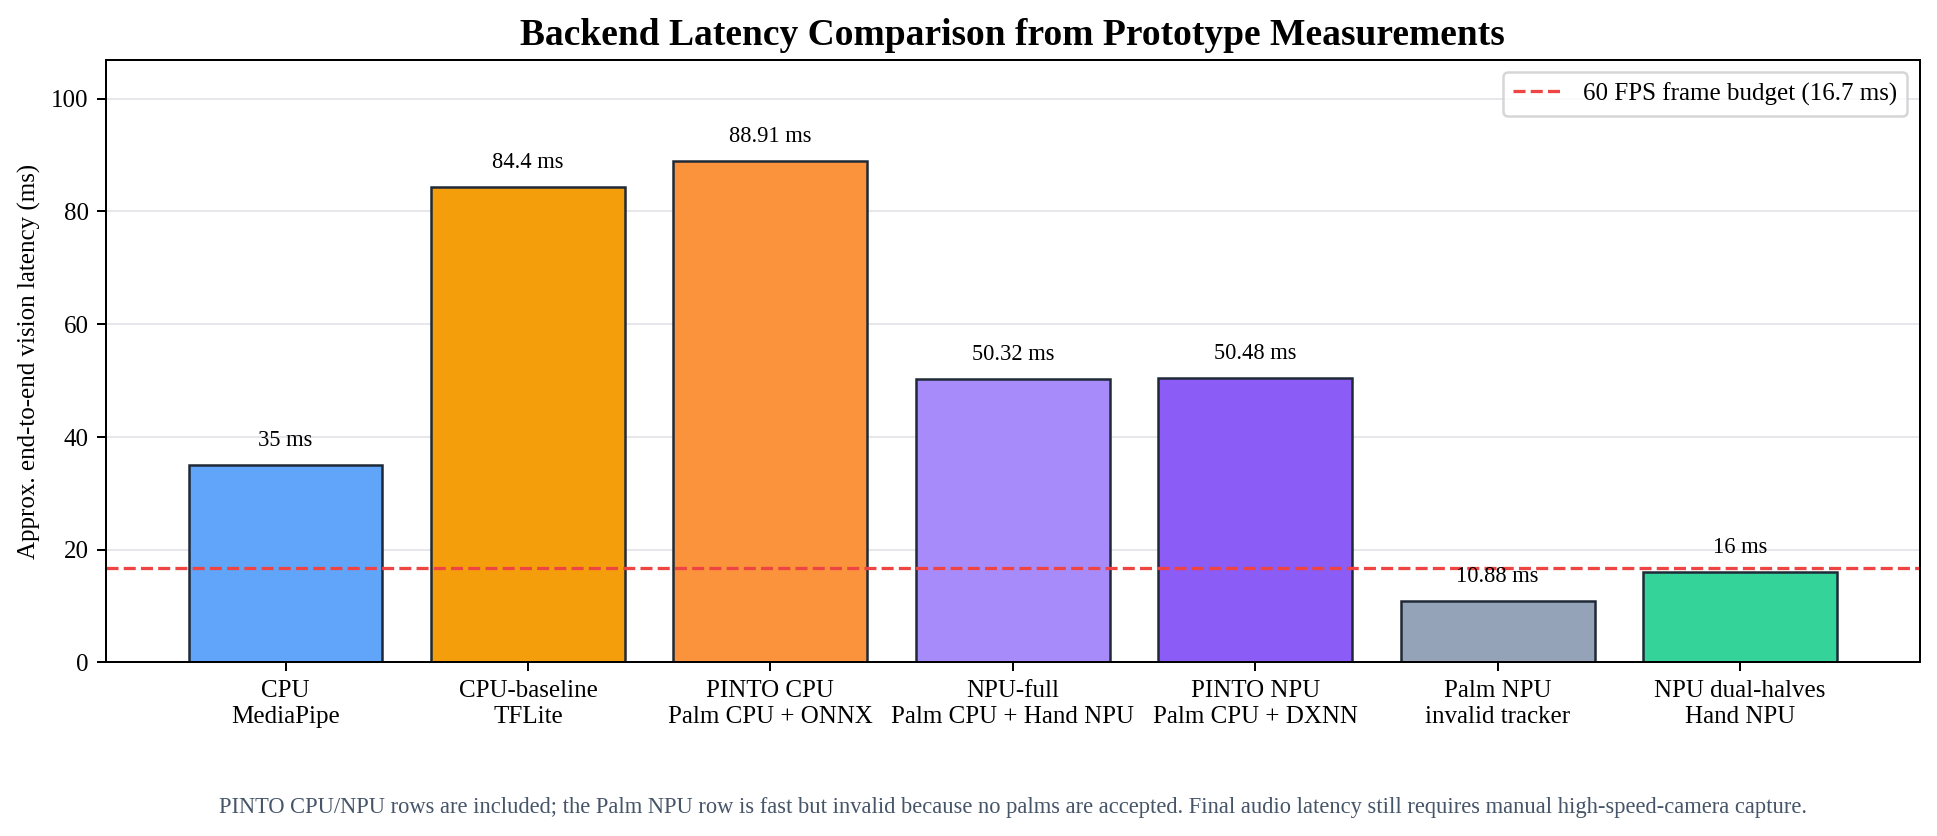
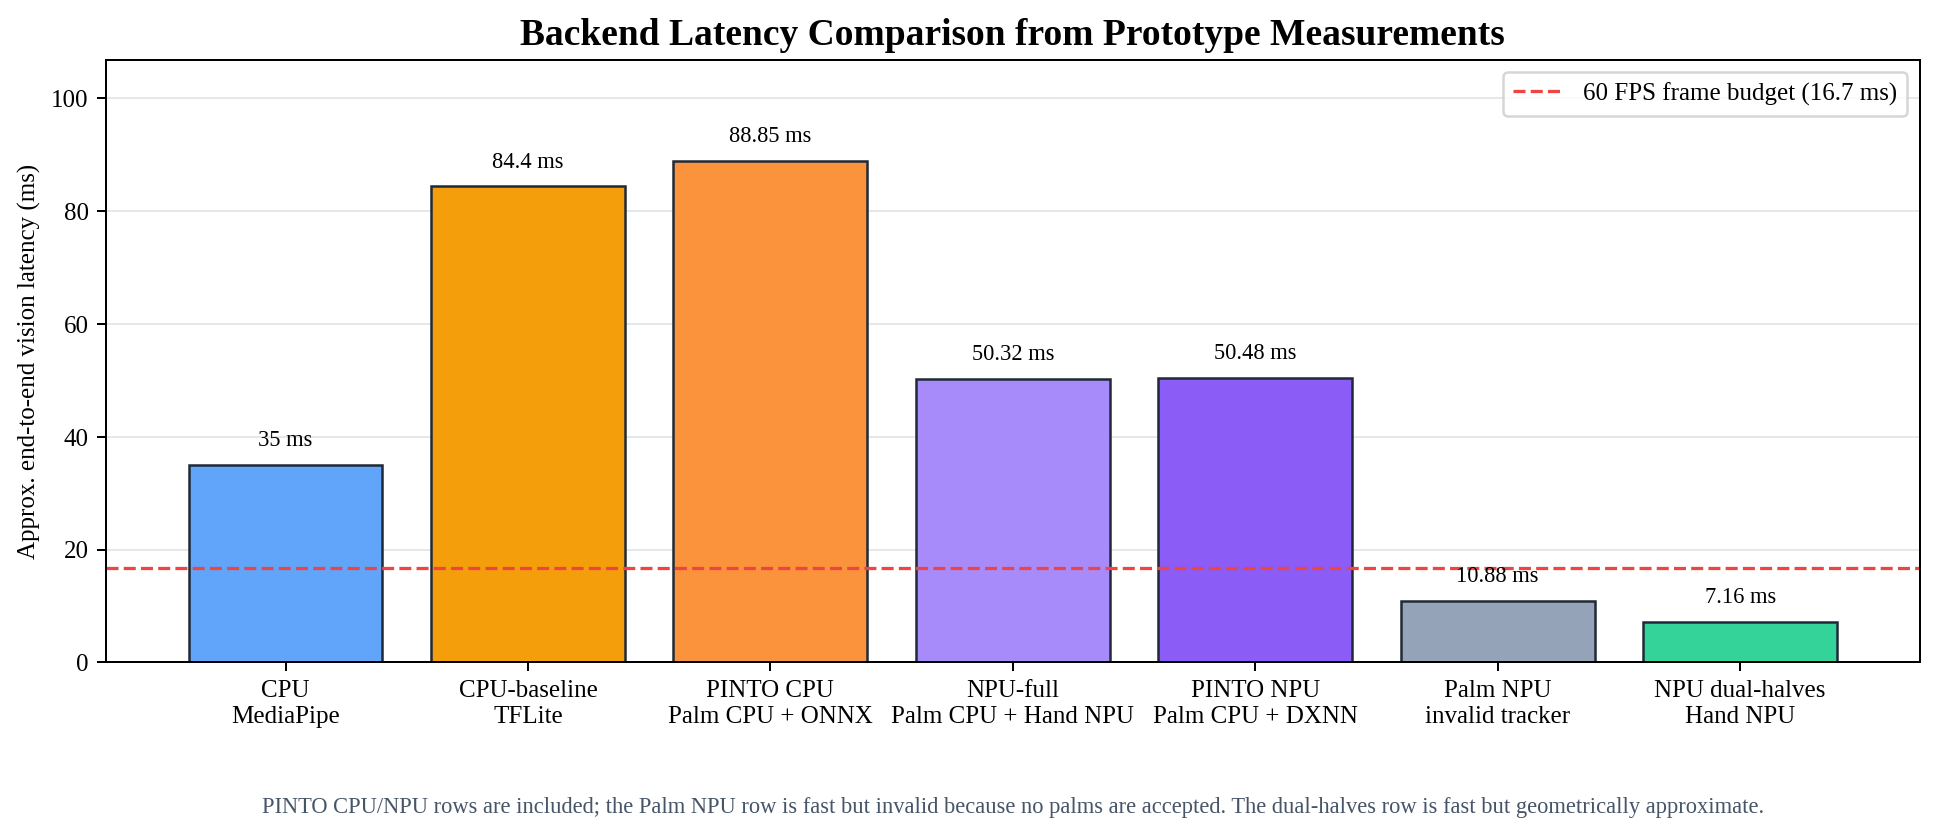
Clarify which backend is worth using on NPU
Add a report table and generated figure that compare latency, landmark agreement, and profiled NPU-active share across cpu-baseline, PINTO, npu-full, dual-halves, and palm-NPU paths.

Constraint: PINTO rows are 10-frame adoption smokes, while the longer cpu-baseline vs npu-full run remains the main 90-frame matched benchmark.

Rejected: Treating raw dxtop instantaneous percent as the comparison metric | it is bursty and less reproducible than profiled NPU-backed stage share.

Confidence: high

Scope-risk: narrow

Directive: Keep npu-full as the default NPU backend until a matched benchmark shows another backend beats both speed and landmark agreement.

Tested: python3 tools/gen_report_figures.py; python3 -m py_compile tools/gen_report_figures.py; python3 -m unittest discover -s tests; python3 tools/test_palm_decode.py

Not-tested: Full 90-frame PINTO replay sweep; synchronized raw dxtop capture embedded in the report.

Changed region(s): [[0.1239, 0.933, 0.9293, 0.9952], [0.8363, 0.6531, 0.9602, 0.7464], [0.2168, 0.2177, 0.3098, 0.2488]]

diff --git a/air_drum_pad/tools/gen_report_figures.py b/air_drum_pad/tools/gen_report_figures.py
@@ -258,7 +258,7 @@ def latency_chart() -> None:
         "Palm NPU\ninvalid tracker",
         "NPU dual-halves\nHand NPU",
     ]
-    values = [35.0, 84.4, 88.91, 50.32, 50.48, 10.88, 16.0]
+    values = [35.0, 84.4, 88.85, 50.32, 50.48, 10.88, 7.16]
     colors = ["#60a5fa", "#f59e0b", "#fb923c", "#a78bfa", "#8b5cf6", "#94a3b8", "#34d399"]
 
     fig, ax = plt.subplots(figsize=(13.0, 5.4))
@@ -282,7 +282,7 @@ def latency_chart() -> None:
     ax.text(
         0.5,
         -0.25,
-        "PINTO CPU/NPU rows are included; the Palm NPU row is fast but invalid because no palms are accepted. Final audio latency still requires manual high-speed-camera capture.",
+        "PINTO CPU/NPU rows are included; the Palm NPU row is fast but invalid because no palms are accepted. The dual-halves row is fast but geometrically approximate.",
         transform=ax.transAxes,
         ha="center",
         fontsize=9,
@@ -293,11 +293,95 @@ def latency_chart() -> None:
     plt.close(fig)
 
 
+def backend_tradeoff_chart() -> None:
+    labels = [
+        "CPU-baseline\nTFLite",
+        "PINTO CPU\nPalm CPU + ONNX",
+        "NPU-full\nPalm CPU + Hand NPU",
+        "PINTO NPU\nPalm CPU + DXNN",
+        "NPU dual-halves\nHand NPU",
+        "Palm NPU\ninvalid tracker",
+    ]
+    latency_ms = [87.73, 88.85, 49.76, 50.48, 7.16, 10.88]
+    mean_xy_error = [
+        0.0,
+        (0.0176 + 0.0103) / 2.0,
+        (0.0068 + 0.0129) / 2.0,
+        (0.0205 + 0.0115) / 2.0,
+        (0.1593 + 0.1319) / 2.0,
+        0.0,
+    ]
+    npu_active_share = [
+        0.0,
+        0.0,
+        8.57 / 49.76 * 100.0,
+        9.00 / 50.48 * 100.0,
+        100.0,
+        10.82 / 10.88 * 100.0,
+    ]
+    colors = ["#f59e0b", "#fb923c", "#a78bfa", "#8b5cf6", "#34d399", "#94a3b8"]
+
+    fig, axes = plt.subplots(1, 3, figsize=(15.5, 5.2))
+    fig.suptitle("Backend Trade-off: Speed, Accuracy, and NPU-Active Share", fontsize=16, fontweight="bold", y=0.98)
+
+    panels = [
+        (axes[0], latency_ms, "Mean vision latency (ms)", "Lower is better", "{:.1f}", set()),
+        (axes[1], mean_xy_error, "Mean normalized XY error", "Lower is better", "{:.4f}", {5}),
+        (axes[2], npu_active_share, "NPU-active share proxy (%)", "Higher means more NPU-bound", "{:.0f}%", set()),
+    ]
+
+    for ax, values, ylabel, subtitle, fmt, invalid_indices in panels:
+        bars = ax.bar(labels, values, color=colors, edgecolor="#1f2937", linewidth=0.9)
+        ax.set_ylabel(ylabel)
+        ax.set_title(subtitle, fontsize=11)
+        ax.grid(axis="y", color="#e5e7eb")
+        ax.set_axisbelow(True)
+        ax.tick_params(axis="x", labelrotation=35, labelsize=8)
+        for index, (bar, value) in enumerate(zip(bars, values)):
+            if index in invalid_indices:
+                bar.set_alpha(0.25)
+                ax.text(
+                    bar.get_x() + bar.get_width() / 2,
+                    ax.get_ylim()[1] * 0.055,
+                    "invalid",
+                    ha="center",
+                    va="bottom",
+                    fontsize=8,
+                    color="#475569",
+                )
+                continue
+            ax.text(
+                bar.get_x() + bar.get_width() / 2,
+                value + ax.get_ylim()[1] * 0.025,
+                fmt.format(value),
+                ha="center",
+                va="bottom",
+                fontsize=8,
+            )
+
+    axes[0].axhline(16.7, color="#ef4444", linestyle="--", linewidth=1.1)
+    axes[0].text(0.0, 17.9, "60 FPS budget", fontsize=8, color="#ef4444")
+    axes[1].set_ylim(0, 0.17)
+    axes[2].set_ylim(0, 112)
+    fig.text(
+        0.5,
+        0.01,
+        "Accuracy uses 10-frame replay agreement against cpu-baseline. NPU-active share is derived from profiled NPU-backed stage time, not a raw dxtop instantaneous percent.",
+        ha="center",
+        fontsize=9,
+        color="#475569",
+    )
+    fig.subplots_adjust(bottom=0.31, top=0.84, wspace=0.28)
+    fig.savefig(OUT / "backend_tradeoff.png", dpi=180, bbox_inches="tight", facecolor="white")
+    plt.close(fig)
+
+
 def main() -> None:
     panda_icon()
     system_pipeline()
     strike_logic()
     latency_chart()
+    backend_tradeoff_chart()
     print(f"Saved report figures to {OUT}")
 
 

diff --git a/air_drum_pad/docs/EXPERIMENTS.md b/air_drum_pad/docs/EXPERIMENTS.md
@@ -72,10 +72,10 @@
 |------|-----|
 | Board | Orange Pi 5 Plus (RK3588, aarch64) |
 | OS | Linux, Python 3.10.12 |
-| DX-RT / dx_engine | 1.1.4 |
-| DX-COM | v2.1.0-rc.4 (SNU 서버) |
+| DX-RT / dx_engine | DXRT v3.2.0 observed through `dxrt-cli`; NPU driver v2.1.0; firmware v2.5.0 |
+| DX-COM | MediaPipe `.dxnn`: v2.1.0-rc.4 metadata; PINTO `.dxnn`: v2.3.0-rc.5 metadata |
 | Camera | USB, 640×480 |
-| Commit | `99f838d` |
+| Commit | See current `git log` for the exact report revision |
 
 ### 8.2 Palm Detection — NPU (.dxnn) vs CPU (TFLite)
 
@@ -85,21 +85,23 @@
 
 | Palm 백엔드 | 추론 시간 | 비고 |
 |-------------|----------:|------|
-| NPU (.dxnn) | ~12 ms | score 파괴로 **사용 불가** |
-| CPU (TFLite XNNPACK) | ~95 ms | **실사용** (float32, 정확) |
+| NPU (.dxnn) | ~10.4-11.2 ms | score 파괴로 **사용 불가**; no accepted palms, hand stage `0.00 ms` |
+| CPU (TFLite XNNPACK) | ~39-42 ms | **실사용** (float32, 정확) |
 
 ### 8.3 End-to-End 레이턴시 비교
 
 | 백엔드 | Palm | Hand (per hand) | 전체 (2 hands) | 비고 |
 |---------|-----:|----------------:|---------------:|------|
 | `cpu` (MediaPipe) | ~15 ms | ~10 ms | ~35 ms | 모두 float32, 추가 파일 불필요 |
-| `cpu-baseline` (TFLite) | ~95 ms | ~5 ms | **~105 ms** | float32, npu-full 비교 기준선 |
-| `npu-full` (TFLite+NPU) | ~95 ms | ~8 ms | **~111 ms** | 매 프레임 palm 실행 |
-| `npu` (dual-halves) | 0 ms | ~8 ms × 2 | **~16 ms** | palm 검출 없음, 근사 |
+| `cpu-baseline` (TFLite) | 41.70 ms | 45.55 ms | **87.73 ms** | 10-frame replay smoke, 비교 기준선 |
+| `pinto-cpu` (TFLite+PINTO ONNX) | 38.62 ms | 49.85 ms | **88.85 ms** | 10-frame replay smoke |
+| `npu-full` (TFLite+NPU) | 40.91 ms | 8.57 ms | **49.76 ms** | 10-frame replay smoke, 기본 경로 |
+| `pinto-npu` (TFLite+PINTO DXNN) | 41.21 ms | 9.00 ms | **50.48 ms** | 10-frame replay smoke, 실험용 |
+| `npu` (dual-halves) | 0 ms | NPU-only hand pass | **7.16 ms** | 10-frame replay smoke; palm 검출 없음, 근사 |
 
 > **npu-full / cpu-baseline**: 매 프레임 palm detection을 실행합니다 (`_PALM_REDETECT_EVERY = 0`). 이전에는 landmark 기반 ROI 트래킹으로 palm skip(5프레임에 1번)을 사용했으나, NPU INT8 양자화 편향 누적으로 ROI 드리프트(최대 dy=0.26)가 발생하여 비활성화했습니다.
 > 
-> **cpu-baseline vs npu-full**: 동일 파이프라인이지만 hand landmark를 CPU TFLite(float32) vs NPU .dxnn(INT8)로 실행. palm이 전체 시간의 ~90%를 차지하므로 NPU 가속 효과는 hand landmark 단독으로 비교해야 합니다 (~5ms TFLite vs ~8ms NPU).
+> **cpu-baseline vs npu-full / pinto-npu**: 동일 palm+ROI 구조에서 hand landmark만 CPU float32 또는 NPU INT8로 바꾸어 비교합니다. 현재 replay에서는 CPU palm이 약 40 ms를 차지하므로, NPU 가속 효과는 hand landmark stage의 45-50 ms → 약 9 ms 감소로 해석해야 합니다.
 
 > **Palm skip 최적화는 실험 옵션입니다.** 기본값은 정확도 우선(`--palm-redetect-every 0`, 매 프레임 palm)입니다. `--palm-redetect-every 5`처럼 지정하면 이전 프레임 랜드마크에서 다음 ROI를 예측해 palm detection을 건너뛰며, 지연은 줄지만 NPU INT8 편향이 누적될 수 있어 dataset benchmark로 오차를 반드시 확인합니다.
 
@@ -110,6 +112,7 @@
 ```bash
 cd air_drum_pad
 python3 tools/benchmark_dataset.py --backends cpu-baseline,npu-full
+python3 tools/benchmark_dataset.py --backends cpu-baseline,pinto-cpu,pinto-npu,npu-full --limit 10 --warmup 0
 python3 tools/benchmark_dataset.py --backends cpu-baseline,npu-full --palm-redetect-every 5
 python3 tools/sweep_palm_redetect.py --values 0,1,2,3,5,10 \
   --backends cpu-baseline,npu-full --csv /tmp/palm_sweep.csv
@@ -127,12 +130,17 @@ python3 tools/benchmark_dataset.py --backends cpu-baseline,npu-full \
   --landmark-correction models/npu_landmark_correction.dataset.json
 ```
 
-현재 `dataset/` 90프레임에서 확인한 예시 결과(Orange Pi 5 Plus, DX-RT/dx_engine 1.1.4):
+현재 `dataset/` 에서 확인한 예시 결과(Orange Pi 5 Plus). `cpu-baseline`/`npu-full`의 주 비교는 90프레임 기준이며, PINTO rows는 컴파일된 PINTO `.dxnn` 추가 후 수행한 10-frame smoke입니다.
 
 | 구성 | 평균 | P95 | 세부 프로파일 | 비고 |
 |------|-----:|----:|----------------|------|
 | `cpu-baseline`, palm every frame | 84.40 ms | 86.78 ms | palm 39.26 ms + hand 44.80 ms | CPU TFLite 기준 |
 | `npu-full`, palm every frame | 50.32 ms | 54.52 ms | palm 40.93 ms + hand 9.13 ms | 같은 palm+ROI, hand만 NPU |
+| `npu-full`, repeated 5-run measurement | 50.10 ms | 51.71 ms | palm 40.69 ms + hand 9.12 ms | 기본 CPU-palm + NPU-hand profile 재현 |
+| `npu-full --palm-dxnn`, repeated run 1 | 10.39 ms | 12.84 ms | palm 10.34 ms + hand 0.00 ms | Palm NPU path는 빠르지만 accepted palm 없음 |
+| `npu-full --palm-dxnn`, repeated run 2 | 10.88 ms | 13.13 ms | palm 10.82 ms + hand 0.00 ms | 같은 실패 모드 재현 |
+| `pinto-cpu` (10-frame smoke) | 88.91 ms | 97.13 ms | palm 40.19 ms + hand 48.27 ms | PINTO ONNX CPU path는 동작하지만 latency win 아님 |
+| `pinto-npu` (10-frame smoke) | 50.48 ms | 54.48 ms | palm 41.21 ms + hand 9.00 ms | PINTO DXNN path는 동작하며 hand stage를 NPU 속도로 실행 |
 | `npu-full`, `--palm-redetect-every 5` (20프레임 smoke) | 15.29 ms | 50.96 ms | palm frames 3/20, tracking frames 17/20 | 지연 개선, 정확도 회귀 확인 필요 |
 | `npu-full`, `--async-palm` smoke | 10–20 ms대 | 입력 pacing 의존 | tracking + async palm refresh | 실험용 파이프라인 |
 
@@ -140,24 +148,36 @@ python3 tools/benchmark_dataset.py --backends cpu-baseline,npu-full \
 
 | 손 | 매칭 프레임 | 전체 21점 평균 | 손끝 5점 평균 | 평균 max | 최대 max |
 |----|-----------:|---------------:|--------------:|---------:|---------:|
-| Right | 90 | 0.0270 | 0.0336 | 0.0532 | 0.1593 |
-| Left | 83 | 0.0256 | 0.0353 | 0.0457 | 0.0734 |
+| Right | 90 | 0.0220 | 0.0267 | 0.0439 | 0.1316 |
+| Left | 83 | 0.0151 | 0.0225 | 0.0304 | 0.0547 |
 
-NPU landmark bias 보정(`models/npu_landmark_correction.bias.json`) 적용 후, 같은 90프레임 training set:
+저장된 NPU landmark 보정 파일도 테스트했지만 현재 replay 기준으로는 기본값으로 쓰지 않습니다. Dataset affine 보정은 right-hand mean error를 0.0314로 악화시켰고, bias 보정도 right-hand mean error를 0.0290으로 악화시켰습니다. 따라서 live demo default는 무보정이며, 보정은 controlled calibration set이 있을 때만 opt-in 합니다.
 
-| 손 | 매칭 프레임 | 전체 21점 평균 | 손끝 5점 평균 | 평균 max | 최대 max |
-|----|-----------:|---------------:|--------------:|---------:|---------:|
-| Right | 90 | **0.0120** | **0.0128** | **0.0245** | 0.1735 |
-| Left | 83 | **0.0111** | **0.0113** | **0.0220** | **0.0473** |
+PINTO 10-frame smoke landmark 오차(`cpu-baseline` 기준, normalized xy):
 
-더 공격적인 NPU landmark affine 보정(`models/npu_landmark_correction.dataset.json`) 적용 후:
+| Backend | 손 | 전체 21점 평균 | 손끝 5점 평균 | 평균 max | 최대 max |
+|---------|----|---------------:|--------------:|---------:|---------:|
+| `pinto-cpu` | Right | 0.0176 | 0.0145 | 0.0321 | 0.0330 |
+| `pinto-cpu` | Left | 0.0103 | 0.0064 | 0.0198 | 0.0208 |
+| `pinto-npu` | Right | 0.0205 | 0.0313 | 0.0429 | 0.0441 |
+| `pinto-npu` | Left | 0.0115 | 0.0140 | 0.0278 | 0.0285 |
+| `npu-full` | Right | 0.0068 | 0.0100 | 0.0133 | 0.0154 |
+| `npu-full` | Left | 0.0129 | 0.0178 | 0.0264 | 0.0308 |
 
-| 손 | 매칭 프레임 | 전체 21점 평균 | 손끝 5점 평균 | 평균 max | 최대 max |
-|----|-----------:|---------------:|--------------:|---------:|---------:|
-| Right | 90 | **0.0102** | **0.0112** | **0.0223** | 0.1701 |
-| Left | 83 | **0.0092** | **0.0090** | **0.0193** | **0.0437** |
+`pinto-npu`는 `pinto-cpu` 대비 latency는 크게 개선되지만, 10-frame smoke 기준으로는 default `npu-full`을 대체할 정도의 landmark agreement 우위가 없습니다. PINTO를 palm 없이 `npu` dual-halves 방식에 넣은 임시 비교도 threshold `0.5`에서는 accepted hand가 없었고, threshold `0.0`으로 강제해도 Right `0.1514`, Left `0.1464` 수준이라 정확한 backend로 보기 어렵습니다.
 
-> 보정은 평균/손끝 오차를 약 60% 이상 줄입니다. 현재 live demo 기본값은 `models/npu_landmark_correction.bias.json`입니다. Affine 보정은 offline 평균 오차가 조금 더 낮지만 live skeleton shape를 과도하게 왜곡할 수 있어 기본값에서 제외했습니다. 위 수치는 동일 dataset에 fit/eval한 결과이므로, 제출 전 별도 capture set으로 hold-out 검증이 필요합니다.
+세 축 비교 요약(backend 간 같은 window 비교를 위해 10-frame replay smoke 기준):
+
+| Backend | 평균 latency | FPS 환산 | NPU-active share proxy | `cpu-baseline` 대비 평균 landmark error | 해석 |
+|---------|-------------:|---------:|-----------------------:|----------------------------------------:|------|
+| `cpu-baseline` | 87.73 ms | 11.4 FPS | 0.0% | 0.0000 reference | 정확도 기준선, NPU 없음 |
+| `pinto-cpu` | 88.85 ms | 11.3 FPS | 0.0% | 0.0140 | 동작하지만 속도 이점 없음 |
+| `npu-full` | 49.76 ms | 20.1 FPS | 17.2% | 0.0099 | 현재 NPU 사용 backend 중 정확도 최선 |
+| `pinto-npu` | 50.48 ms | 19.8 FPS | 17.8% | 0.0160 | NPU 속도는 확보했지만 `npu-full` 정확도는 못 이김 |
+| `npu` dual-halves | 7.16 ms | 139.7 FPS | 약 100% | 0.1456 | 가장 빠르고 NPU-bound지만 정확도 탈락 |
+| `npu-full --palm-dxnn` | 10.88 ms | 91.9 FPS | 99.4% | invalid | palm NPU는 실행되나 accepted palm 없음 |
+
+`NPU-active share proxy`는 raw `dxtop` 순간 util이 아니라, benchmark profile에서 NPU-backed stage 시간이 전체 vision-loop latency에서 차지하는 비율입니다. `npu-full`과 `pinto-npu`는 손 landmark stage만 NPU라 share가 약 17-18%로 낮고, CPU palm detection이 전체 latency를 지배합니다. 반면 `npu` dual-halves와 palm `.dxnn` path는 NPU 비중은 높지만 정확도 또는 accepted-palm 조건을 만족하지 못합니다.
 
 CSV/JSON 저장:
 

diff --git a/air_drum_pad/docs/FINAL_REPORT_AI_AIR_DRUM_PAD.md b/air_drum_pad/docs/FINAL_REPORT_AI_AIR_DRUM_PAD.md
@@ -260,7 +260,7 @@ The backend evaluation was designed to separate three questions that are often c
 2. How much of the latency comes from palm detection versus hand landmark inference?
 3. Does the NPU accelerate the part of the pipeline that is actually deployed on the NPU, and what accuracy risks are introduced by faster approximations?
 
-For that reason, four runtime configurations were evaluated rather than a single prototype.
+For that reason, several runtime configurations were evaluated rather than a single prototype.
 
 | Configuration | What it evaluates | Why this baseline is required |
 |---------------|-------------------|-------------------------------|
@@ -321,7 +321,7 @@ The latest validation run produced:
 | Test group | Result |
 |------------|--------|
 | Python syntax check | Passed |
-| Unit tests | 48/48 passed |
+| Unit tests | 49/49 passed |
 | Palm decode tests | 15/15 passed |
 | Dataset benchmark smoke | Skipped intentionally in the portable validation run |
 
@@ -357,7 +357,7 @@ The drum-pad interface performed better than the piano interface because drum mo
 
 ### 7.4 Backend Performance Summary
 
-The table below reports the high-level latency comparison for the evaluated runtime configurations. The `cpu` row is a practical reference path. The `cpu-baseline` and default `npu-full` rows form the controlled CPU-vs-NPU comparison because they share the same palm→ROI→hand pipeline and differ primarily in hand landmark inference. The `npu-full --palm-dxnn` row is not a valid hand-tracking result; it is included because it directly measures the desired palm-on-NPU direction and shows why it is not yet usable.
+The table below reports the high-level latency comparison for the evaluated runtime configurations. The `cpu` row is a practical reference path. The `cpu-baseline` and default `npu-full` rows form the controlled CPU-vs-NPU comparison because they share the same palm→ROI→hand pipeline and differ primarily in hand landmark inference. The PINTO rows are 10-frame adoption smokes for the newly added PINTO ONNX/DXNN paths. The `npu-full --palm-dxnn` row is not a valid hand-tracking result; it is included because it directly measures the desired palm-on-NPU direction and shows why it is not yet usable.
 
 | Backend | Recorded latency / profile | Interpretation |
 |---------|----------------------------|----------------|
@@ -365,15 +365,32 @@ The table below reports the high-level latency comparison for the evaluated runt
 | `cpu-baseline` (TFLite) | mean 84.40 ms; palm 39.26 ms + hand 44.80 ms | Same two-stage structure as `npu-full`; isolates the hand-landmark accelerator comparison |
 | `npu-full` default | mean 50.10-50.32 ms; palm about 40.7 ms + hand about 9.1 ms | Valid accurate hybrid path; NPU accelerates hand landmarks, but CPU palm detection dominates total time |
 | `npu-full --palm-dxnn models/vendor/palm_detection_lite.dxnn` | repeated means 10.39 ms and 10.88 ms; profile `hand=0.00 ms` | Palm `.dxnn` executes and is fast, but current output/postprocess path accepts no palms, so this is not a working full-NPU tracker |
-| `npu` dual-halves | about 16 ms in prior live-oriented measurement | Fastest path and close to the 60 FPS budget, but it approximates hand location without palm detection |
+| `npu` dual-halves | 10-frame replay mean 7.16 ms; about 16 ms in prior live-oriented measurement | Fastest path and close to the 60 FPS budget, but it approximates hand location without palm detection |
 | `pinto-cpu` | 10-frame smoke mean 88.91 ms; palm 40.19 ms + hand 48.27 ms | PINTO ONNX adoption works on CPU, but it is slower than the current NPU hand-landmark path |
 | `pinto-npu` | 10-frame smoke mean 50.48 ms; palm 41.21 ms + hand 9.00 ms | PINTO DXNN loads and runs on NPU; latency is comparable to `npu-full`, but accuracy is not yet a default-path win |
 
 The result has three important implications. First, moving only the hand landmark model to NPU helps substantially, reducing the TFLite-style hand stage from 44.80 ms to about 9.13 ms. Second, this is still insufficient when CPU palm detection remains about 40 ms. Third, the palm `.dxnn` path consumes NPU and is fast, but it cannot be used for the final instrument until its detections are accepted and the hand-landmark stage runs.
 
+The following table compares the same backend family across three practical axes: speed, landmark agreement, and NPU use. To keep `cpu-baseline`, `pinto-cpu`, `npu-full`, `pinto-npu`, `npu` dual-halves, and palm-NPU rows in one comparable window, this table uses the 10-frame replay smoke measurements; the longer 90-frame `cpu-baseline` vs. `npu-full` result remains the main matched benchmark in Section 7.5. The NPU column is a profiled **NPU-active share proxy**, computed as the fraction of measured vision-loop time spent in NPU-backed stages. It is not a raw instantaneous `dxtop` percentage; it is included because `dxtop` showed bursty use while the profiler gives a reproducible per-frame estimate.
+
+| Backend | Mean latency | FPS equivalent | NPU-active share proxy | Mean landmark error vs. `cpu-baseline` | Practical conclusion |
+|---------|-------------:|---------------:|-----------------------:|---------------------------------------:|----------------------|
+| `cpu-baseline` | 87.73 ms | 11.4 FPS | 0.0% | 0.0000 reference | Accuracy reference, but too slow and no NPU use |
+| `pinto-cpu` | 88.85 ms | 11.3 FPS | 0.0% | 0.0140 | PINTO ONNX works, but has no speed advantage |
+| `npu-full` | 49.76 ms | 20.1 FPS | 17.2% | 0.0099 | Best current NPU-backed accuracy and default backend |
+| `pinto-npu` | 50.48 ms | 19.8 FPS | 17.8% | 0.0160 | Runs at NPU speed, but does not beat `npu-full` accuracy |
+| `npu` dual-halves | 7.16 ms | 139.7 FPS | about 100% | 0.1456 | Fastest and most NPU-bound, but too inaccurate for the final tracker |
+| `npu-full --palm-dxnn` | 10.88 ms | 91.9 FPS | 99.4% | not valid | Palm NPU executes, but no accepted palms reach hand landmark inference |
+
+![Figure 13. Backend trade-off comparison across latency, landmark agreement, and NPU-active share.](figures/backend_tradeoff.png)
+
+<p align="center"><em>Figure 13. Backend trade-off comparison across latency, landmark agreement, and NPU-active share.</em></p>
+
+From this three-axis view, the current answer is clear: `pinto-npu` proves that the PINTO model can run on the NPU, but it does not beat `npu-full` overall. Their latency and NPU-active share are almost the same because both still spend about 40 ms in CPU palm detection. The differentiator is landmark agreement, where `npu-full` is better in the current 10-frame replay comparison. The only backend that is much faster, `npu` dual-halves, loses too much accuracy because it removes palm localization.
+
 ### 7.5 Offline Dataset Benchmark Summary
 
-A 90-frame offline benchmark was run to compare the two structurally matched pipelines, `cpu-baseline` and `npu-full`, using the same captured input frames. This benchmark removes live camera variability and focuses on per-frame processing latency and landmark agreement.
+A 90-frame offline benchmark was run to compare the two structurally matched pipelines, `cpu-baseline` and `npu-full`, using the same captured input frames. This benchmark removes live camera variability and focuses on per-frame processing latency and landmark agreement. PINTO CPU/NPU rows are reported separately as 10-frame smoke measurements because the compiled PINTO `.dxnn` was added after the main 90-frame run.
 
 | Configuration | Mean latency | P95 latency | Component profile | Interpretation |
 |---------------|-------------:|------------:|-------------------|----------------|
@@ -400,7 +417,20 @@ Two correction approaches were tested. The dataset correction worsened the right
 
 The current conclusion is that the hand-landmark `.dxnn` is callable and correctly wired at the IO level, but its INT8 output distribution differs enough from the CPU float/TFLite reference to affect visible landmark accuracy. This is a model-conversion and quantization quality issue rather than a total runtime failure.
 
[2 lines of base64/hex data omitted]
+
+In a 10-frame replay comparison against `cpu-baseline`, the PINTO paths produced the following landmark agreement:
+
+| Backend | Hand | Mean error over 21 points | Mean fingertip error | Mean max error | Worst max error |
+|---------|------|--------------------------:|---------------------:|---------------:|----------------:|
+| `pinto-cpu` | Right | 0.0176 | 0.0145 | 0.0321 | 0.0330 |
+| `pinto-cpu` | Left | 0.0103 | 0.0064 | 0.0198 | 0.0208 |
+| `pinto-npu` | Right | 0.0205 | 0.0313 | 0.0429 | 0.0441 |
+| `pinto-npu` | Left | 0.0115 | 0.0140 | 0.0278 | 0.0285 |
+| `npu-full` | Right | 0.0068 | 0.0100 | 0.0133 | 0.0154 |
+| `npu-full` | Left | 0.0129 | 0.0178 | 0.0264 | 0.0308 |
+
+The model is therefore useful as an experimental candidate and runs at NPU speed, but it is not yet a replacement for the default hand-landmark `.dxnn`.
 
 ---
 